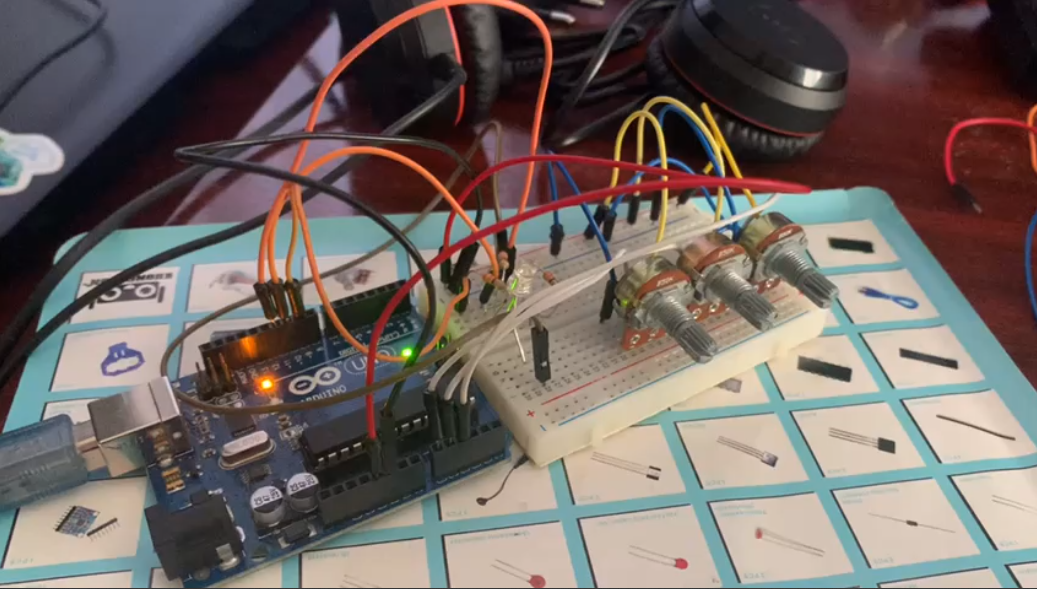
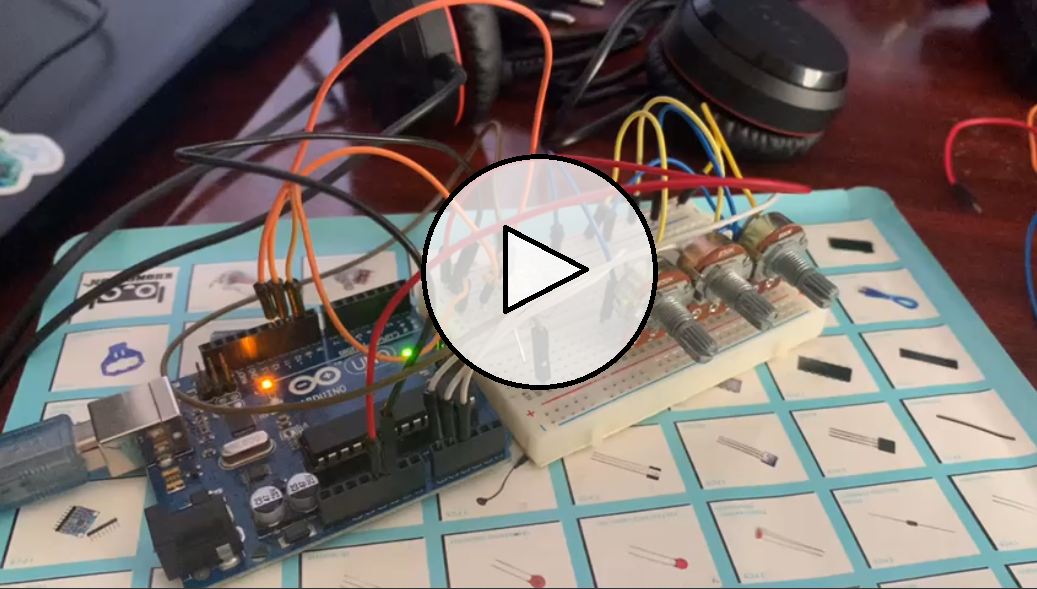
thumbnail done + readme

Changed region(s): [[0.4012, 0.2445, 0.648, 0.6723]]

diff --git a/README.md b/README.md
@@ -10,6 +10,4 @@ Each homework will include their own requirements, implementation details, code 
 </div>
 
 ## [Homework 1.)](Homework2-RGB)
-TBA
-
-(...)
+Task: Use a separate potentiometer for controlling each color of the RGB LED:Red,Green, andBlue.  This control must leveragedigital electronics.  Specifically,you  need  to  read  the  potentiometer’s  value  with  Arduino  and  then  write a mapped value to the LED pins.

diff --git a/Homework2-RGB/README.md b/Homework2-RGB/README.md
@@ -50,8 +50,6 @@ void loop() {
 ```
 
 ## Video
-[![Watch the video](assets/thumbnail.jpg)](https://youtu.be/34BXTwMJW_8)
-<!-- make the video open in a new tab -->
 <a href="https://youtu.be/34BXTwMJW_8" target="_blank"><img src="assets/thumbnail.jpg"></a>
 
 ## Images
